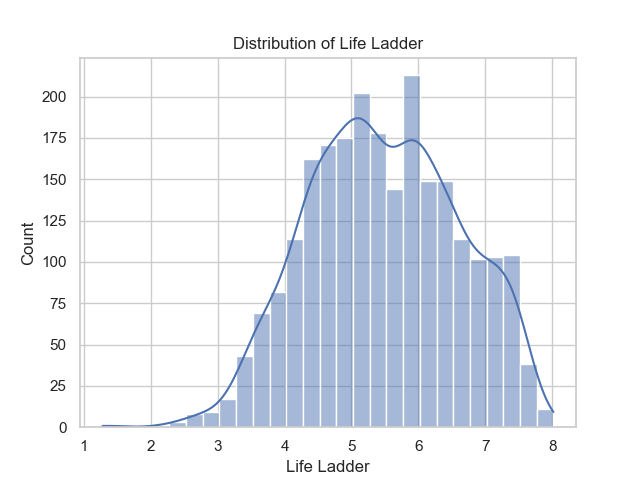
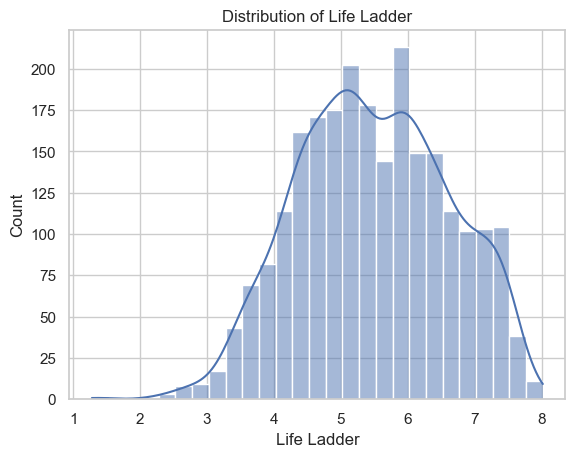
Updated autolysis code

diff --git a/autolysis.py b/autolysis.py
@@ -6,9 +6,19 @@ import matplotlib.pyplot as plt
 import httpx
 import chardet
 
+# Ensure seaborn is installed
+try:
+    import seaborn
+except ImportError:
+    print("Seaborn is not installed. Installing now...")
+    os.system("pip install seaborn")
+    import seaborn
+
 # Constants
 API_URL = "https://aiproxy.sanand.workers.dev/openai/v1/chat/completions"
 AIPROXY_TOKEN = input("Please enter your API token: ")
+
+# Utility Functions
 def load_data(file_path):
     """Load CSV data with encoding detection."""
     with open(file_path, 'rb') as f:
@@ -17,56 +27,91 @@ def load_data(file_path):
     return pd.read_csv(file_path, encoding=encoding)
 
 def analyze_data(df):
-    """Perform basic data analysis."""
-    numeric_df = df.select_dtypes(include=['number'])  # Select only numeric columns
+    """Perform generic data analysis."""
+    numeric_df = df.select_dtypes(include=['number'])
     analysis = {
         'summary': df.describe(include='all').to_dict(),
         'missing_values': df.isnull().sum().to_dict(),
-        'correlation': numeric_df.corr().to_dict()  # Compute correlation only on numeric columns
+        'correlation': numeric_df.corr().to_dict(),
     }
     return analysis
 
 def visualize_data(df):
-    """Generate and save visualizations."""
+    """Generate and save up to 5 visualizations, including a heatmap."""
     sns.set(style="whitegrid")
     numeric_columns = df.select_dtypes(include=['number']).columns
-    for column in numeric_columns:
+
+    visualizations = []
+
+    # Distribution plots (limit to 4)
+    for i, column in enumerate(numeric_columns[:4]):
         plt.figure()
         sns.histplot(df[column].dropna(), kde=True)
         plt.title(f'Distribution of {column}')
-        plt.savefig(f'{column}_distribution.png')
+        filename = f'{column}_distribution.png'
+        plt.savefig(filename, dpi=100, bbox_inches='tight')
         plt.close()
+        visualizations.append(filename)
 
-def generate_narrative(analysis):
-    """Generate narrative using LLM."""
+    # Heatmap for correlation (always include if possible)
+    if len(numeric_columns) > 1:
+        plt.figure(figsize=(8, 6))
+        correlation_matrix = df[numeric_columns].corr()
+        sns.heatmap(correlation_matrix, annot=True, fmt=".2f", cmap="coolwarm")
+        plt.title("Correlation Heatmap")
+        heatmap_filename = "correlation_heatmap.png"
+        plt.savefig(heatmap_filename, dpi=100, bbox_inches='tight')
+        plt.close()
+        visualizations.append(heatmap_filename)
+
+    return visualizations
+
+def generate_narrative(analysis, visualizations):
+    """Generate a story based on the analysis using LLM."""
     headers = {
         'Authorization': f'Bearer {AIPROXY_TOKEN}',
         'Content-Type': 'application/json'
     }
-    prompt = f"Provide a detailed analysis based on the following data summary: {analysis}"
+    prompt = (
+        f"The data analysis revealed the following insights:\n"
+        f"Summary Statistics: {analysis['summary']}\n"
+        f"Missing Values: {analysis['missing_values']}\n"
+        f"Correlation Matrix: {analysis['correlation']}\n"
+        f"Additionally, the following visualizations were created: {visualizations}.\n"
+        "Based on this information, write a comprehensive analysis and provide actionable insights."
+    )
     data = {
         "model": "gpt-4o-mini",
         "messages": [{"role": "user", "content": prompt}]
     }
-    try:
-        response = httpx.post(API_URL, headers=headers, json=data, timeout=30.0)
-        response.raise_for_status()
-        return response.json()['choices'][0]['message']['content']
-    except httpx.HTTPStatusError as e:
-        print(f"HTTP error occurred: {e}")
-    except httpx.RequestError as e:
-        print(f"Request error occurred: {e}")
-    except Exception as e:
-        print(f"An unexpected error occurred: {e}")
+    for attempt in range(3):  # Retry up to 3 times
+        try:
+            response = httpx.post(API_URL, headers=headers, json=data, timeout=60.0)
+            response.raise_for_status()
+            return response.json()['choices'][0]['message']['content']
+        except httpx.RequestError as e:
+            if attempt < 2:  # Retry if not the last attempt
+                print(f"Retrying due to request error: {e}")
+                continue
+            else:
+                print(f"Request error occurred after 3 attempts: {e}")
+        except Exception as e:
+            print(f"An unexpected error occurred: {e}")
     return "Narrative generation failed due to an error."
 
 def main(file_path):
     df = load_data(file_path)
     analysis = analyze_data(df)
-    visualize_data(df)
-    narrative = generate_narrative(analysis)
+    visualizations = visualize_data(df)
+
+    # Generate narrative using the analysis and visualizations
+    narrative = generate_narrative(analysis, visualizations)
+
+    # Save narrative to README.md, include the heatmap
     with open('README.md', 'w') as f:
         f.write(narrative)
+        if "correlation_heatmap.png" in visualizations:
+            f.write("\n\n![Correlation Heatmap](correlation_heatmap.png)")
 
 if __name__ == "__main__":
     if len(sys.argv) != 2:
